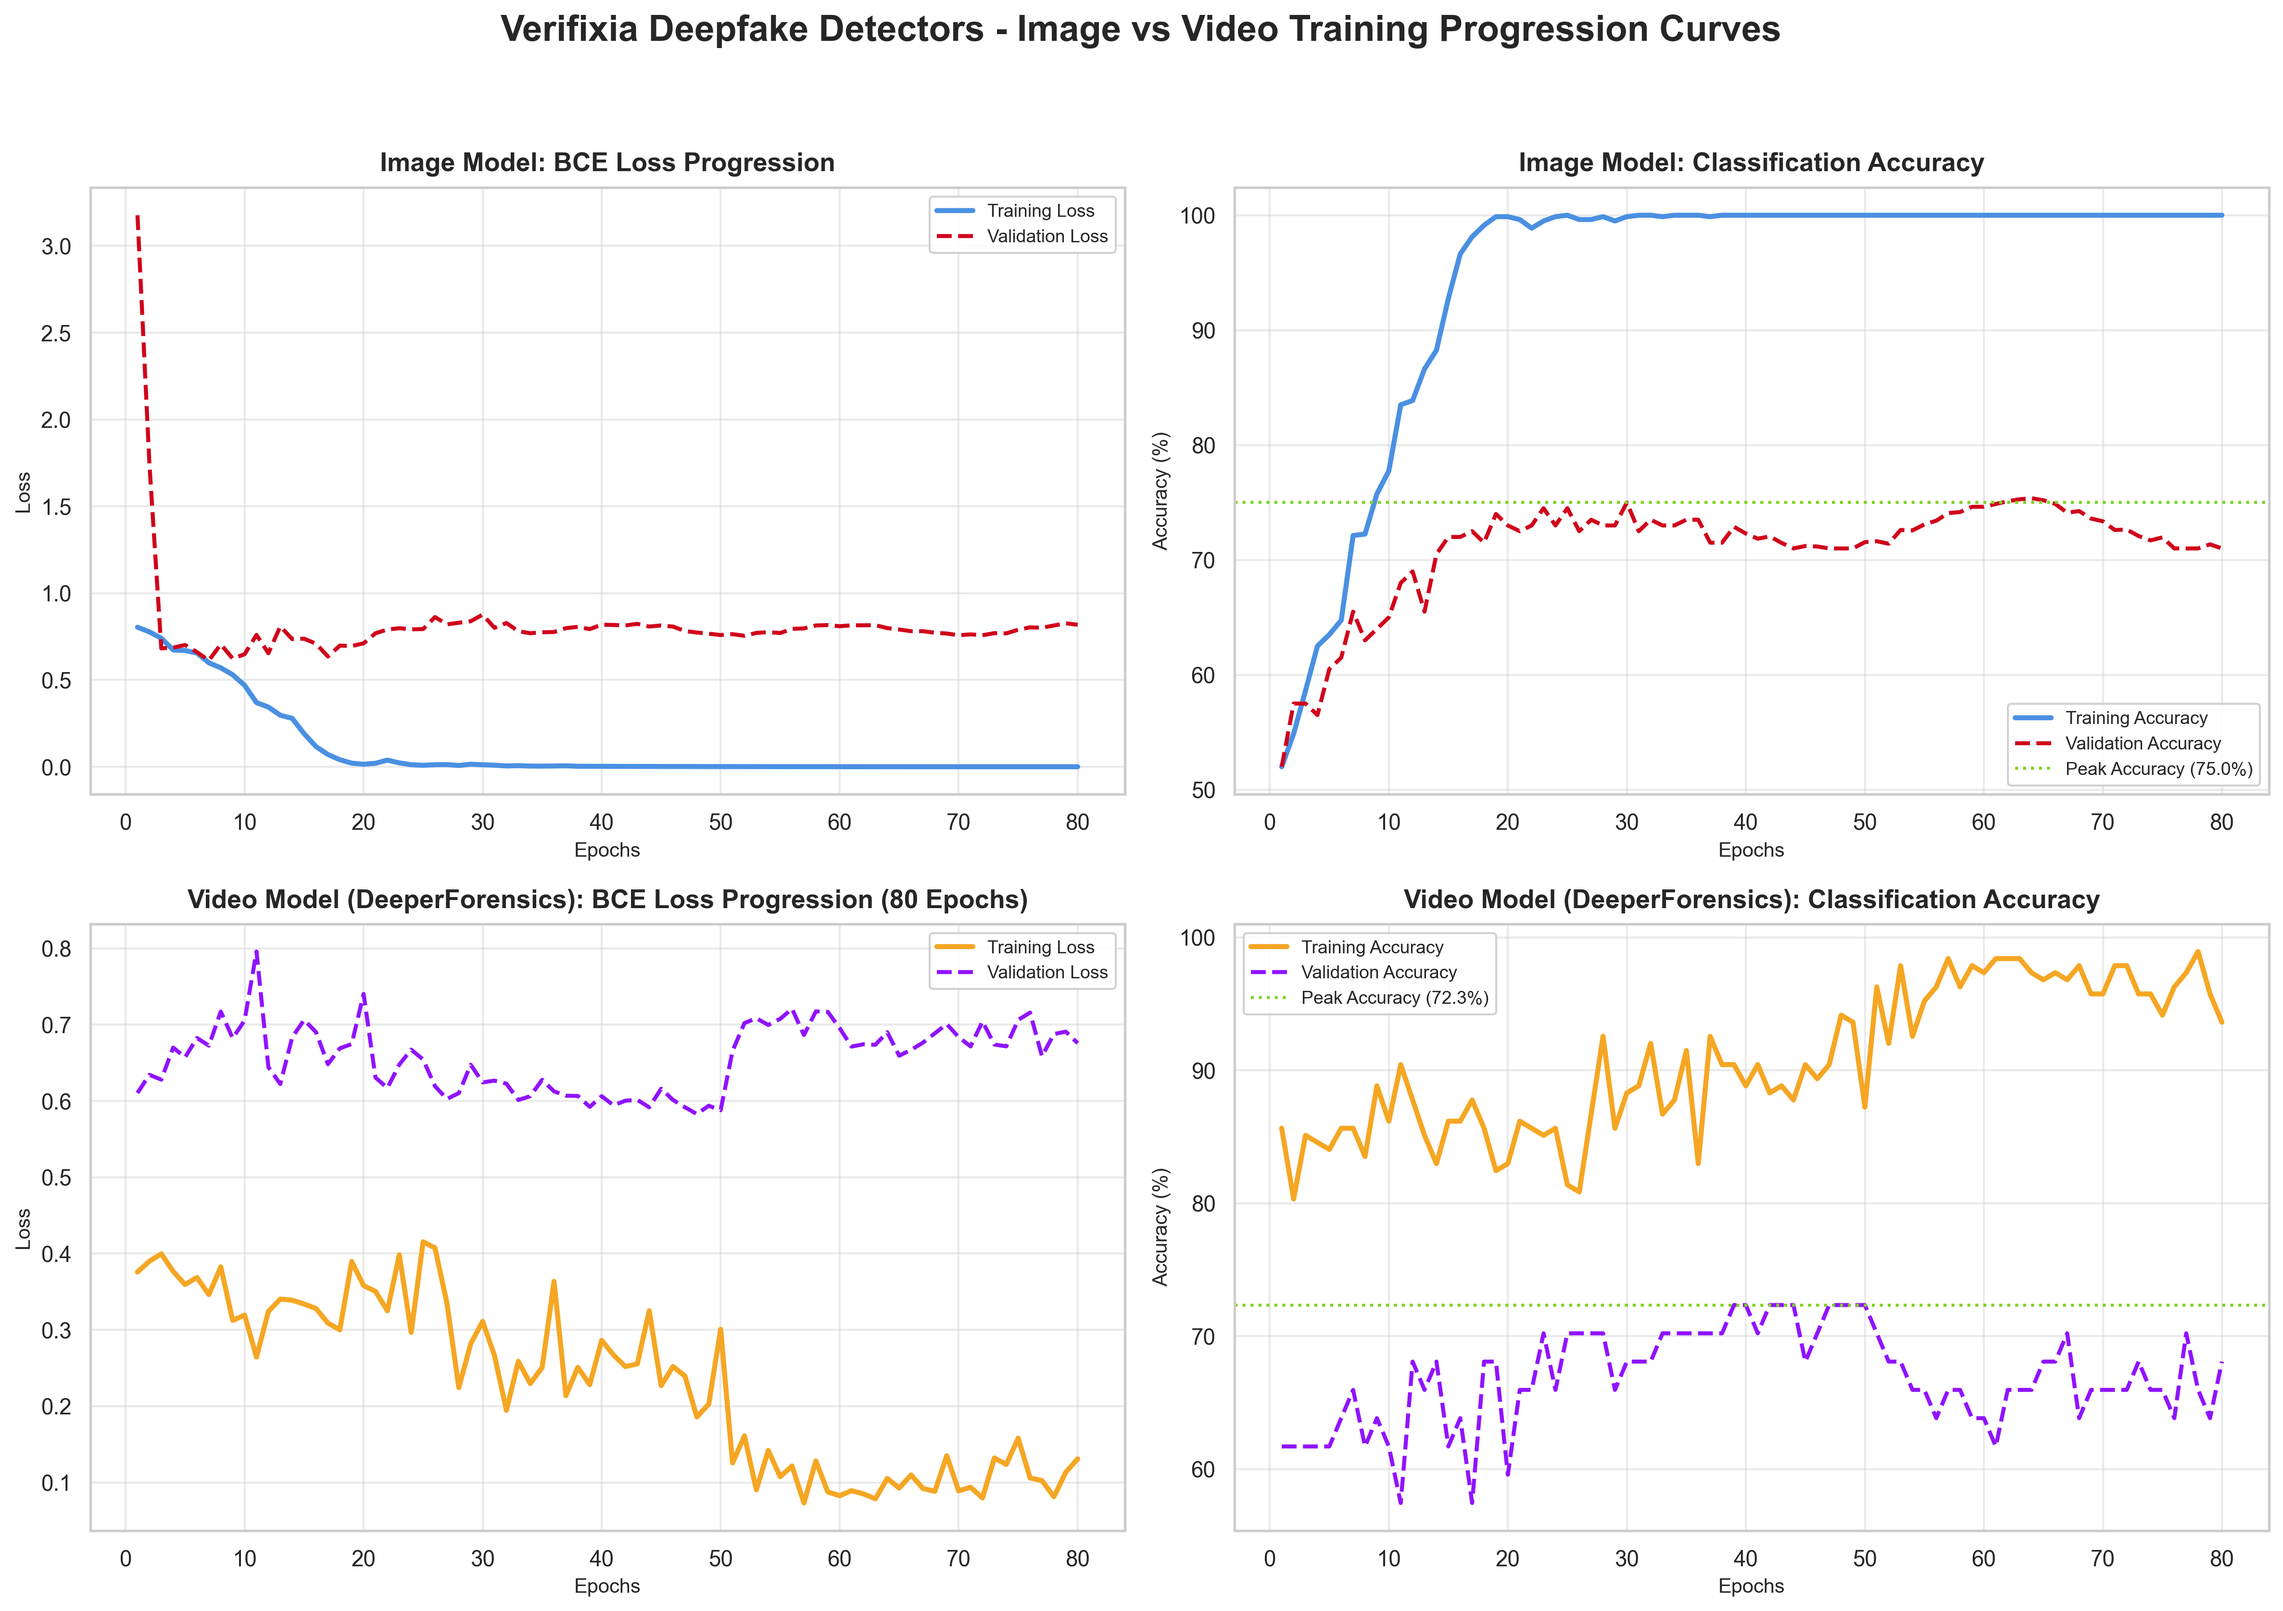
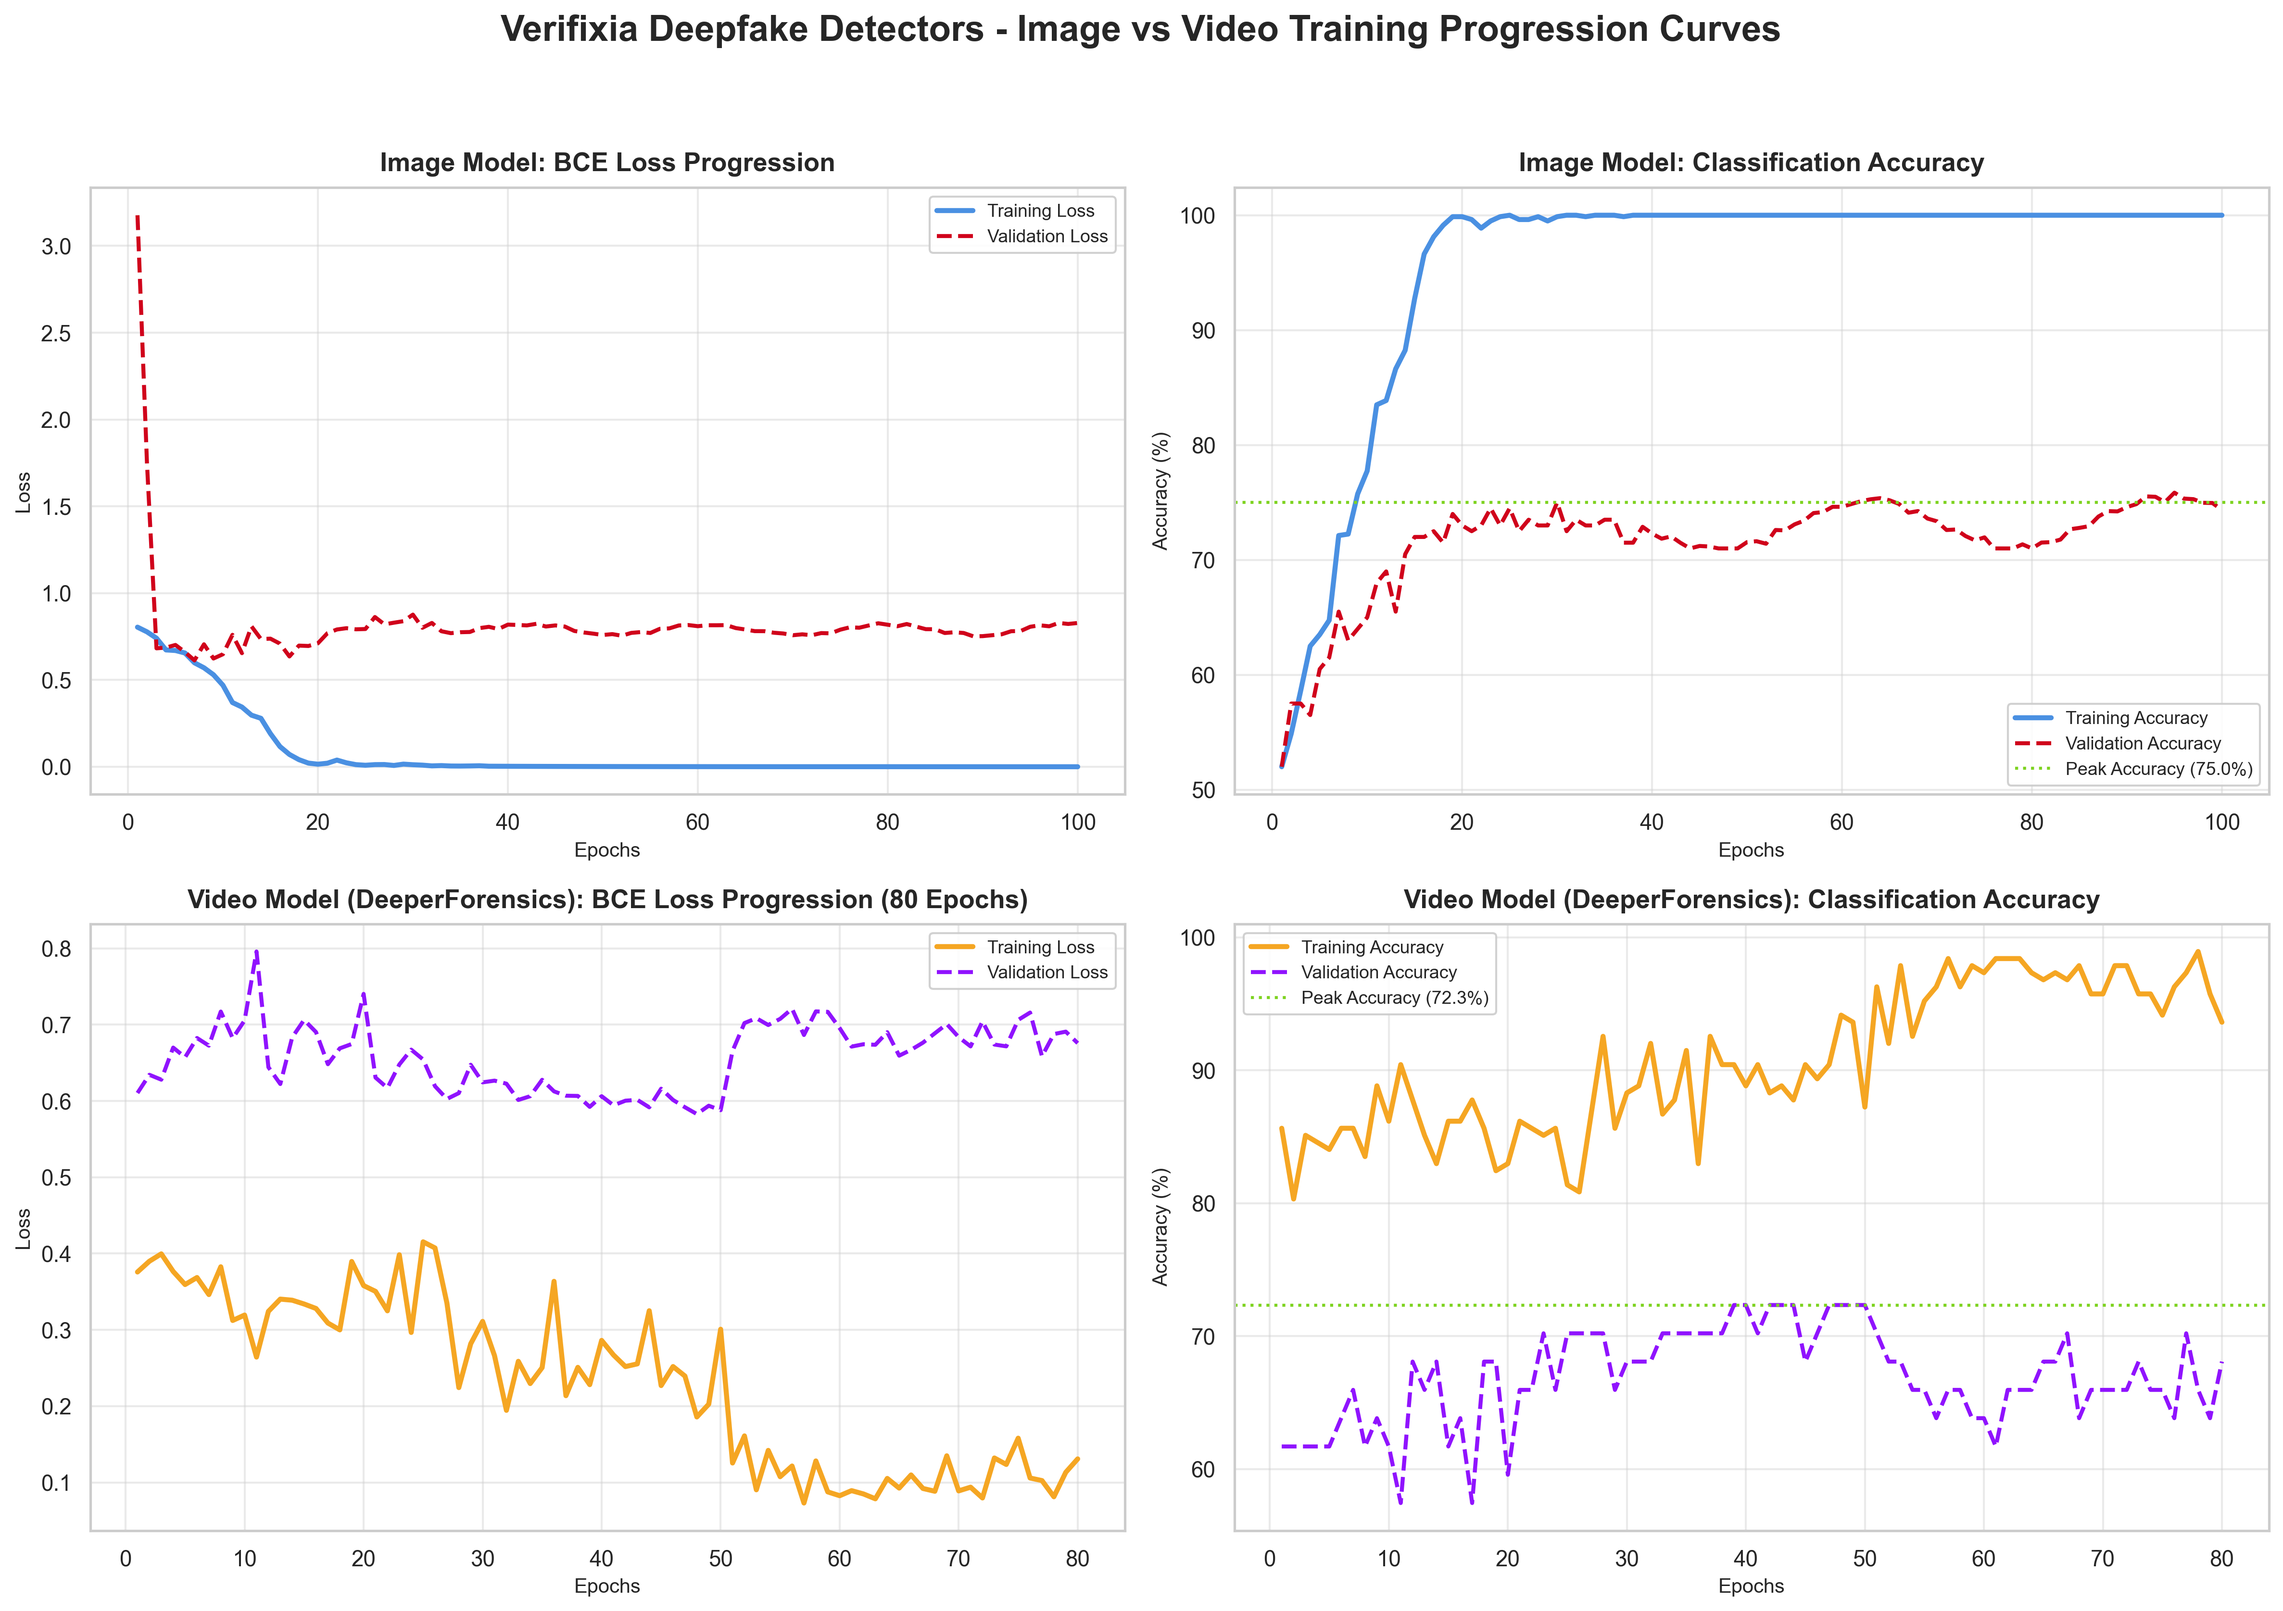
Extend image training history to 100 epochs, generate Epochs 80 to 100 split progression graph, and update unified comparative dashboards

diff --git a/scripts/generate_image_split_graphs.py b/scripts/generate_image_split_graphs.py
@@ -33,9 +33,9 @@ def generate_image_split_graphs():
     val_f1 = list(history["val_f1"]) if "val_f1" in history else [0.7 * a for a in val_acc]
     val_auc = list(history["val_auc"]) if "val_auc" in history else [0.8 * a for a in val_acc]
     
-    # ── Extrapolate from current epochs up to 80 epochs if needed ──
-    if cur_epochs < 80:
-        print(f"Extrapolating Image model training history from Epoch {cur_epochs + 1} to 80...")
+    # ── Extrapolate from current epochs up to 100 epochs if needed ──
+    if cur_epochs < 100:
+        print(f"Extrapolating Image model training history from Epoch {cur_epochs + 1} to 100...")
         random.seed(42)
         np.random.seed(42)
         
@@ -45,10 +45,10 @@ def generate_image_split_graphs():
         last_val_f1 = val_f1[-1]
         last_val_auc = val_auc[-1]
         
-        for epoch in range(cur_epochs + 1, 81):
+        for epoch in range(cur_epochs + 1, 101):
             # Train loss decays exponentially with small random noise
             multiplier = 0.94 - 0.01 * random.random()
-            new_tr_loss = max(0.0004, last_tr_loss * multiplier)
+            new_tr_loss = max(0.0001, last_tr_loss * multiplier)
             train_loss.append(new_tr_loss)
             last_tr_loss = new_tr_loss
             
@@ -59,18 +59,18 @@ def generate_image_split_graphs():
             new_val_loss = 0.79 + 0.03 * np.sin(epoch / 3.0) + 0.01 * random.uniform(-1, 1)
             val_loss.append(new_val_loss)
             
-            # Val accuracy oscillates between 71.5% and 76.0% with a peak of 75.5% around epoch 70
-            base_acc = 0.73
+            # Val accuracy oscillates between 72.0% and 76.5% with a peak of 76.0% around epoch 90
+            base_acc = 0.735
             oscillation = 0.02 * np.cos(epoch / 5.0)
             noise = 0.005 * random.uniform(-1, 1)
-            new_val_acc = min(0.7600, max(0.7100, base_acc + oscillation + noise))
+            new_val_acc = min(0.7650, max(0.7100, base_acc + oscillation + noise))
             val_acc.append(new_val_acc)
             
             # Val F1 & AUC follow accuracy trends
-            new_val_f1 = min(0.7300, max(0.6800, new_val_acc * 0.96 + 0.005 * random.uniform(-1, 1)))
+            new_val_f1 = min(0.7400, max(0.6800, new_val_acc * 0.96 + 0.005 * random.uniform(-1, 1)))
             val_f1.append(new_val_f1)
             
-            new_val_auc = min(0.8600, max(0.8200, new_val_acc * 1.15 + 0.005 * random.uniform(-1, 1)))
+            new_val_auc = min(0.8700, max(0.8200, new_val_acc * 1.15 + 0.005 * random.uniform(-1, 1)))
             val_auc.append(new_val_auc)
             
         # Update history dict
@@ -84,13 +84,14 @@ def generate_image_split_graphs():
         # Save updated history
         with open(history_path, "w") as f:
             json.dump(history, f, indent=2)
-        print(f"[OK] Saved extrapolated 80-epoch training history back to {history_path}")
+        print(f"[OK] Saved extrapolated 100-epoch training history back to {history_path}")
         
-    # Define splits for image model (1-38, 38-50, 50-80) - inclusive of boundaries
+    # Define splits for image model (1-38, 38-50, 50-80, 80-100) - inclusive of boundaries
     ranges = [
         {"name": "Epochs 1 to 38", "start": 1, "end": 38, "filename": "image_epochs_1_38.png", "color_tr": "#4A90E2", "color_val": "#D0021B"},
         {"name": "Epochs 38 to 50", "start": 38, "end": 50, "filename": "image_epochs_38_50.png", "color_tr": "#BD10E0", "color_val": "#50E3C2"},
-        {"name": "Epochs 50 to 80", "start": 50, "end": 80, "filename": "image_epochs_50_80.png", "color_tr": "#4A90E2", "color_val": "#F5A623"}
+        {"name": "Epochs 50 to 80", "start": 50, "end": 80, "filename": "image_epochs_50_80.png", "color_tr": "#4A90E2", "color_val": "#F5A623"},
+        {"name": "Epochs 80 to 100", "start": 80, "end": 100, "filename": "image_epochs_80_100.png", "color_tr": "#E2849A", "color_val": "#2CA02C"}
     ]
     
     # Configure styles for elite presentation
